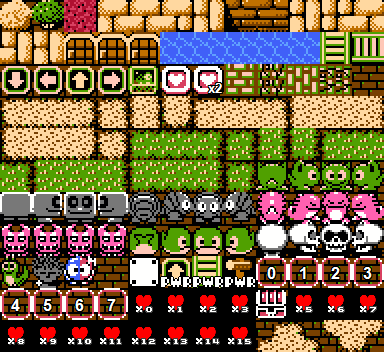
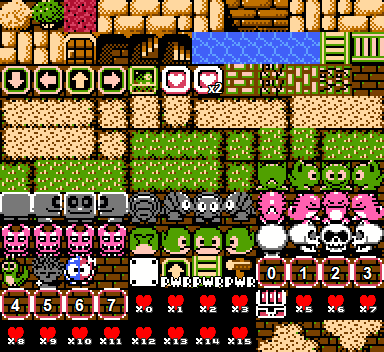
Se elimina un tileset

Changed region(s): [[0.25, 0.0938, 0.5, 0.1875]]

diff --git a/js/src/states/loader.js b/js/src/states/loader.js
@@ -7,9 +7,8 @@ BlueBall.Loader.prototype = Object.create(Phaser.State.prototype);
 BlueBall.Loader.prototype.preload = function () {
 
     this.game.load.image('AdventuresOfLolo3', 'assets/tilemaps/tiles/AdventuresOfLolo3.png');
-    this.game.load.image('AdventuresOfLolo3Attrib', 'assets/tilemaps/tiles/AdventuresOfLolo3Attrib.png');
     this.game.load.atlas('loloSprites', 'assets/sprites/loloSprites.png', 'assets/sprites/loloSprites.json');
-    this.game.load.atlas('tileSprites', 'assets/tilemaps/tiles/AdventuresOfLolo3Attrib.png', 'assets/sprites/tileSprites.json');
+    this.game.load.atlas('tileSprites', 'assets/tilemaps/tiles/AdventuresOfLolo3.png', 'assets/sprites/tileSprites.json');
     this.game.load.atlas('chestSprites', 'assets/sprites/chestSprites.png', 'assets/sprites/chestSprites.json');
     this.game.load.atlas('mobSprites', 'assets/sprites/mobSprites.png', 'assets/sprites/mobSprites.json');
     this.game.load.atlas('eggSprites', 'assets/sprites/eggSprites.png', 'assets/sprites/eggSprites.json');

diff --git a/js/src/states/level.js b/js/src/states/level.js
@@ -59,7 +59,7 @@ BlueBall.Level.prototype.create = function () {
     this.map.createFromObjects('entities', 93, 'mobSprites', 25, true, false, this.entities, BlueBall.Skull, false);
     this.map.createFromObjects('entities', 99, 'loloSprites', 10, true, false, this.entities, BlueBall.Lolo, false);
 
-    this.player = this.entities.filter(function(entity) { return entity instanceof BlueBall.Lolo}).first;
+    this.player = this.entities.filter(function(entity) { return entity instanceof BlueBall.Lolo; }).first;
 
     var eggCounterImage = this.game.add.sprite(420, 128, 'eggSprites', 1, this.layers);
     eggCounterImage.scale.set(2);

diff --git a/js/src/core/entities/exit.js b/js/src/core/entities/exit.js
@@ -6,7 +6,7 @@ BlueBall.Exit = function (game, x, y, key, frame) {
 
     this.frameName = 'doorClosed';
 
-    this.gid = 18;
+    this.gid = 15;
 
 };
 
@@ -15,13 +15,13 @@ BlueBall.Exit.prototype = Object.create(BlueBall.Item.prototype);
 BlueBall.Exit.prototype.open = function () {
 
     this.frameName = 'doorOpened';
-    this.gid = 17;
+    this.gid = 16;
 
 };
 
 BlueBall.Exit.prototype.onPlayerEnter = function () {
 
-    if (this.gid === 17) {
+    if (this.gid === 16) {
 
         this.level.catchExit();
 

diff --git a/js/src/core/entities/lolo.js b/js/src/core/entities/lolo.js
@@ -8,7 +8,7 @@ BlueBall.Lolo = function (game, x, y, key, frame) {
 
     this.collideIndexes.push(1, 2, 97, 81);
     this.pushIndexes.push(29, 100);
-    this.bridgeIndexes.push(17);
+    this.bridgeIndexes.push(16);
 
     this.projectileClass = BlueBall.ProjectileEgg;
 
